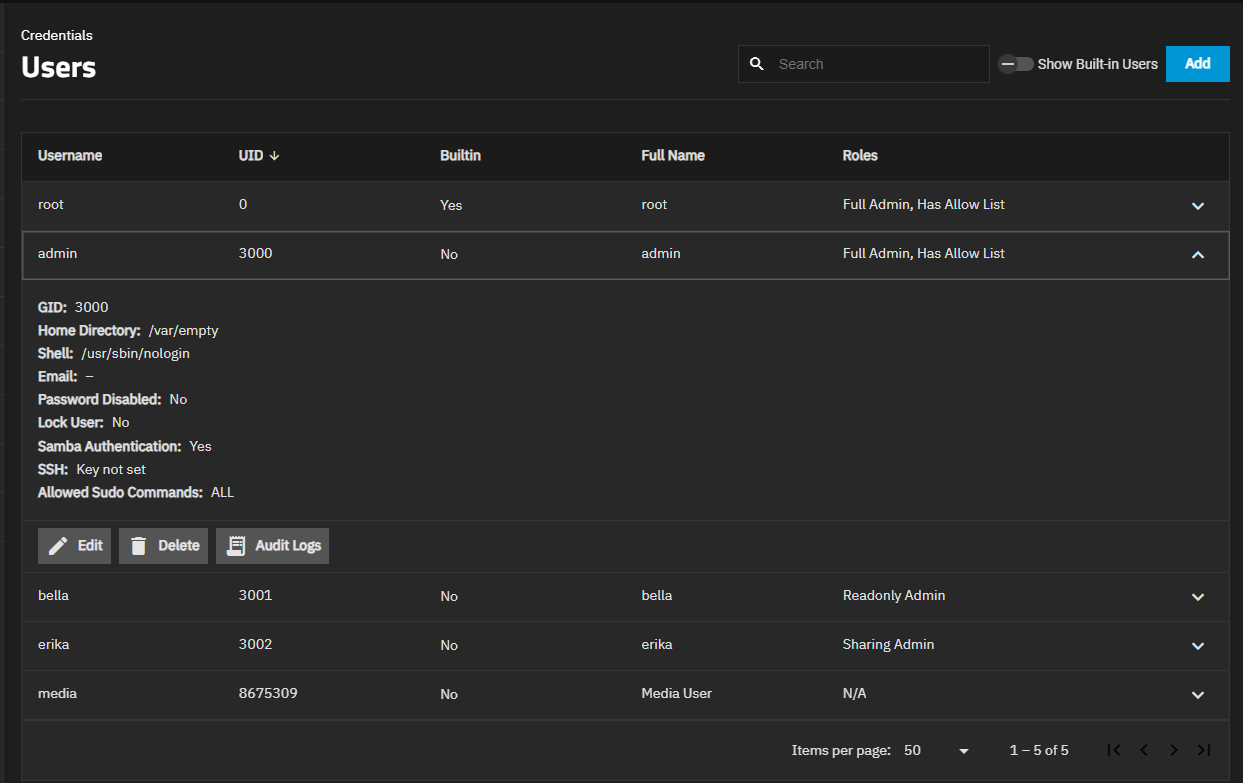
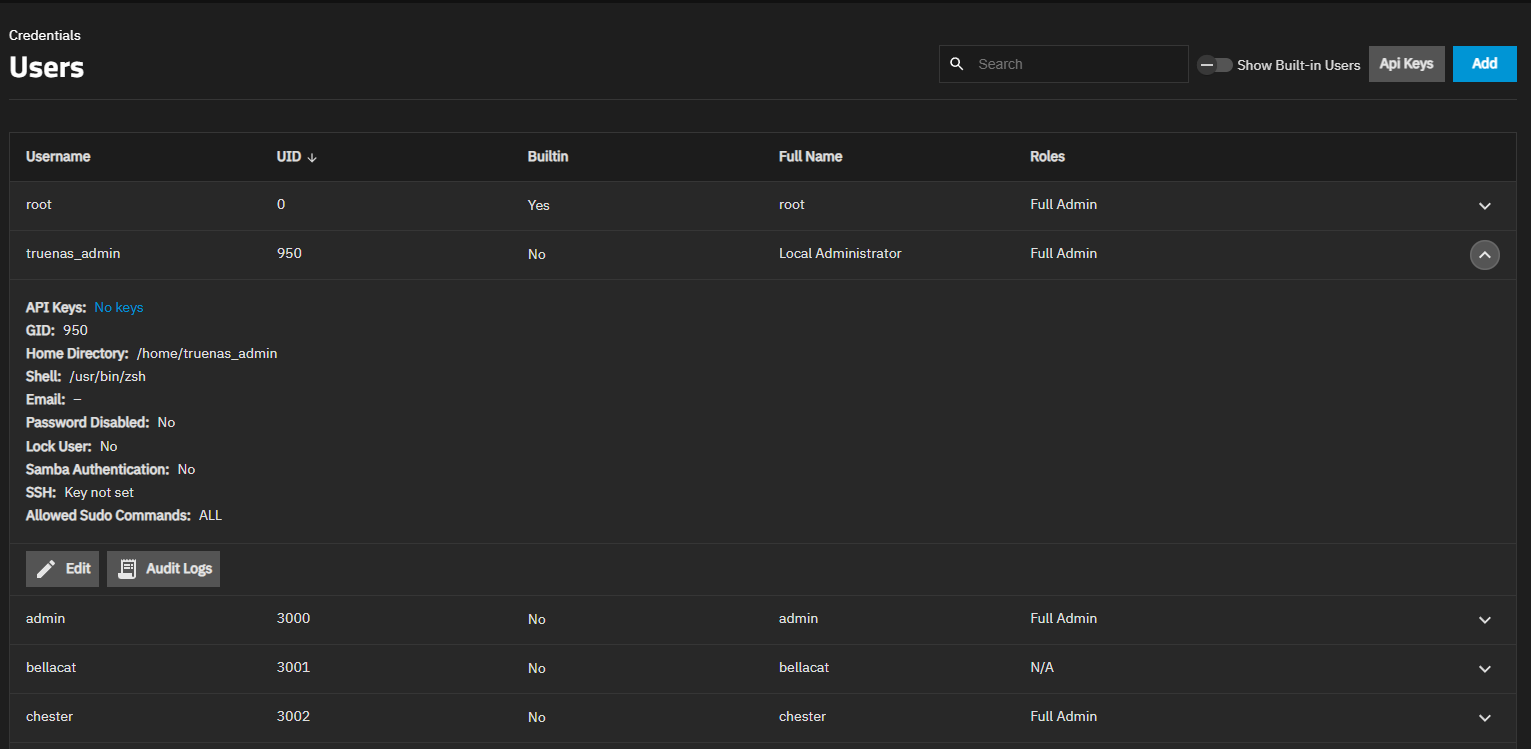
PD-1911 Update User Details Screenshot
This PR updates the screenshot for an expanded user detail screen, and adds the new API keys information to the screen description.

diff --git a/content/SCALE/SCALEUIReference/Credentials/LocalUsersScreensSCALE.md b/content/SCALE/SCALEUIReference/Credentials/LocalUsersScreensSCALE.md
@@ -30,7 +30,7 @@ Click on a user row to show the user details screen.
 
 ### User Details Screen
 
-The expanded view of each user includes details for that user, including the home directory location, shell, Samba authentication, SSH key, and sudo command access (if assigned).
+The expanded view of each user includes details for that user, including API keys for the user, the home directory location, shell, Samba authentication, SSH key, and sudo command access (if assigned).
 It provides the option to edit or delete the user, and access user audit logs.
 
 {{< trueimage src="/images/SCALE/Credentials/UserScreenUserDetails.png" alt="Local User Details" id="Local User Details" >}}
@@ -53,12 +53,12 @@ Built-in users (except the **root** user) do not include the **Home Directory Pe
 {{< truetable >}}
 | Setting | Description |
 |---------|-------------|
-| **Full Name** | Required. Enter a description for the user, such as a first and last name. |  
-| **Username** | Required. Enter a user name of up to 16 characters in length. When using NIS or other legacy software with limited user name lengths, keep names to eight characters or less for compatibility. Do not begin the user name with a hyphen (-), and do not include a space, tab, the comma (,), plus (+), ampersand (&), percent (%), carat (^), open or close parenthesis ( ), exclamation mark (!), at symbol (@), tilde (~), question mark (?), greater or less than symbols (<)(>), or equals (+) in the name. You can use the dollar sign ($) as the last character of the user name. |  
+| **Full Name** | Required. Enter a description for the user, such as a first and last name. |  
+| **Username** | Required. Enter a user name of up to 16 characters in length. When using NIS or other legacy software with limited user name lengths, keep names to eight characters or less for compatibility. Do not begin the user name with a hyphen (-), and do not include a space, tab, the comma (,), plus (+), ampersand (&), percent (%), carat (^), open or close parenthesis ( ), exclamation mark (!), at symbol (@), tilde (~), question mark (?), greater or less than symbols (<)(>), or equals (+) in the name. You can use the dollar sign ($) as the last character of the user name. |  
 | **Disable Password** | Use the toggle to disable the password for the selected user. At least one user with administrative privileges must have a password enabled. |
-| **Password** | Required. Enter a user password unless you set **Enable Password login** to **No**. A password cannot contain a question mark (?). The **Edit User** screen displays **New Password**. |  
-| **Confirm Password** | Required. Re-enter the value entered in **Password**. The **Edit User** screen displays **Confirm New Password**. |  
-| **Email** | Enter the email address of the new user. This email address receives notifications, alerts, and messages based on the settings configured. |
+| **Password** | Required. Enter a user password unless you set **Enable Password login** to **No**. A password cannot contain a question mark (?). The **Edit User** screen displays **New Password**. |  
+| **Confirm Password** | Required. Re-enter the value entered in **Password**. The **Edit User** screen displays **Confirm New Password**. |  
+| **Email** | Enter the email address of the new user. This email address receives notifications, alerts, and messages based on configured settings. |
 {{< /truetable >}}
 
 {{< trueimage src="/images/SCALE/Credentials/EditUserIdentificationSCALE.png" alt="Edit User Identification Settings" id="Edit User Identification Settings" >}}
@@ -74,15 +74,15 @@ Built-in users (except the **root** user) do not include the **Home Directory Pe
 {{< truetable >}}
 | Setting | Description |
 |---------|-------------|
-| **User ID** | Required. Enter a number greater than 1000 for user accounts. System accounts use an ID equal to the default port number used by the service. |  
-| **Primary Group** | Select a group from the dropdown list. New users are not assigned **su** permissions if **wheel** is their primary group. |  
-| **Auxiliary Groups** | Select group(s) from the dropdown list to add this new user to additional groups. To assign a pre-defined administrator role, scroll down the list to select the desired role. |  
-| **Create New Primary Group** | Select to create a new primary group with the same name as the user. Clear to select an existing group from the **Primary Group** dropdown list. |  
+| **User ID** | Required. Enter a number greater than 1000 for user accounts. System accounts use an ID equal to the default port number used by the service. |  
+| **Primary Group** | Select a group from the dropdown list. New users are not assigned **su** permissions if **wheel** is their primary group. |  
+| **Auxiliary Groups** | Select group(s) from the dropdown list to add this new user to additional groups. To assign a pre-defined administrator role, scroll down the list to select the desired role. |  
+| **Create New Primary Group** | Select to create a new primary group with the same name as the user. Clear to select an existing group from the **Primary Group** dropdown list. |  
 {{< /truetable >}}
 {{< /expand >}}
 
 ### Directories and Permissions settings
-**Directory and Permissions** settings specify the user home directory and the permissions for that home directory.
+**Directory and Permissions** settings specify the home directory for the user and the permissions for the home directory.
 
 {{< trueimage src="/images/SCALE/Credentials/AddUserHomeDirPerm.png" alt="Directories and Permissions Settings" id="Directories and Permissions Settings" >}}
 
@@ -90,7 +90,7 @@ Built-in users (except the **root** user) do not include the **Home Directory Pe
 {{< truetable >}}
 | Setting | Description |
 |---------|-------------|
-| **Home Directory** | Enter or browse to enter the path to the home directory for this user. If the directory exists and matches the **Username**, it is set as the home directory for the user. When the path does not end with a subdirectory matching the username, a new subdirectory is created if **Create Home Directory** is selected (enabled). The full path to the user home directory displays in this field on the **Edit User** screen for this user. The default location is **/var/empty**. |   
+| **Home Directory** | Enter or browse to enter the path to the home directory for this user. If the directory exists and matches the **Username**, it is set as the home directory for the user. When the path does not end with a subdirectory matching the username, a new subdirectory is created if **Create Home Directory** is selected (enabled). The full path to the user home directory shows in this field on the **Edit User** screen for this user. The default location is **/var/empty**. |   
 | **Home Directory Permissions** | Select the permissions in **Read**, **Write**, and **Execute** for each role (**User**, **Group**, and **Other**) to set access control for the user home directory. Built-in users are read-only and can not modify these settings.|
 | **Create Home Directory** | Select to create a home directory for the user when the home directory path for this user does not end in the user name. Creates a home directory for the user within the selected path. |
 {{< /truetable >}}
@@ -108,14 +108,14 @@ The add and edit user screens grant access to a shell option, but the [privilege
 | Setting | Description |
 |---------|-------------|
 | **Authorized Keys** | Enter or paste the downloaded SSH public key of the user for any key-based authentication. Use **Download Authorized Keys** to obtain a public key text file. Keep a backup copy of the public key! Do not paste the private key in this field! |
-| **Upload SSH Key** | Browse to the public key text file. |  
-| **Shell** | Select the [shell](#shell-options) to use for local and SSH logins from the dropdown list. Options are **nologin**, **TrueNAS CLI**, **TrueNAS Console**, **sh**, **bash**, **rbash**, **dash**, **tmux**, and **zsh**. |  
-| **Lock User** | Select to prevent the user from logging in or using password-based services until you clear this checkbox. Locking an account is only possible when **Disable Password** is set to **No** and the account has a created password in **Password**. |  
+| **Upload SSH Key** | Paste the public key text file for the user in this field. |  
+| **Shell** | Select the [shell](#shell-options) for local and SSH logins from the dropdown list. Options are **nologin**, **TrueNAS CLI**, **TrueNAS Console**, **sh**, **bash**, **rbash**, **dash**, **tmux**, and **zsh**. |  
+| **Lock User** | Select to prevent the user from logging in or using password-based services until you clear this checkbox. Locking an account is only possible when **Disable Password** is set to **No** and the account has a created password in **Password**. |  
 | **Allowed sudo commands** | Use to list specific [sudo](https://www.sudo.ws/) commands allowed for this user. Enter each command as an absolute path to the ELF (Executable and Linkable Format) executable file, for example, */usr/bin/nano*. <file>/usr/bin/</file> is the default location for commands. <br> Grants limited root-like permissions for this user when using these commands. Using sudo prompts the user for their account password. |
-| **Allow all sudo commands** | Select to give this user permission to use all [sudo](https://www.sudo.ws/) commands. Using sudo prompts the user for their account password. |
+| **Allow all sudo commands** | Select to grant the user permission to use all [sudo](https://www.sudo.ws/) commands. Using sudo prompts the user to enter their account password. |
 | **Allowed sudo commands with no password** | Use to list specific [sudo](https://www.sudo.ws/) commands allowed for this user with no password required. Enter each command as an absolute path to the ELF (Executable and Linkable Format) executable file, for example, */usr/bin/nano*. <file>/usr/bin/</file> is the default location for commands. <br> Grants limited root-like permissions for this user when using these commands. Exercise caution when allowing sudo commands without password prompts. We recommend limiting this privilege to trusted users and specific commands to minimize security risks. |
 | **Allow all sudo commands with no password** | Select to give this user administrator permissions and the ability to use all [sudo](https://www.sudo.ws/) commands with no password required. <br> This is not recommended. |
-| **SMB User** | Select to allow this user to authenticate to and access data share with [SMB]({{< relref "/SCALE/SCALETutorials/Shares/_index.md" >}}) samba shares. |  
+| **SMB User** | Select to allow this user to authenticate to and access data share with [SMB]({{< relref "/SCALE/SCALETutorials/Shares/_index.md" >}}) samba shares. |  
 | **Download Authorized Keys** | Click to generate and download a public key text file. Displays on the **Edit User** screen. |
 {{< /truetable >}}
 
@@ -125,15 +125,15 @@ You can set a specific [shell]({{< relref "UseScaleShell.md" >}}) for the user f
 {{< truetable >}}
 | Shell | Description |
 |-------|-------------|
-| **nologin** | Use when creating a system account or to create a user account that can authenticate with shares but that cannot log in to the TrueNAS system using SSH. In rare cases where a TrueNAS 13.0 user has `/etc/netcli` set as the user shell then migrates to TrueNAS 24.04, the user shell changes to `/user/sbin/nologin` as the default. |
+| **nologin** | Use when creating a system account or to create a user account that can authenticate with shares but that cannot log in to the TrueNAS system using SSH. In rare cases where a TrueNAS 13.0 user has `/etc/netcli` set as the user shell. After migrating to TrueNAS 24.04, the user shell changes to `/user/sbin/nologin` as the default. |
 | **bash** | [Bourne Again shell](https://www.gnu.org/software/bash/manual/bash.html) for the GNU operating system. |
 | **rbash** | [Restricted bash](https://www.gnu.org/software/bash/manual/html_node/The-Restricted-Shell.html) |
 | **dash** | [Debian Almquist shell](https://man7.org/linux/man-pages/man1/dash.1.html) |
 | **sh** | [Bourne shell](https://www.in-ulm.de/~mascheck/bourne/v7/) |
-| **tmux** | [terminal multiplexer](https://man7.org/linux/man-pages/man1/tmux.1.html)  |
+| **tmux** | [terminal multiplexer](https://man7.org/linux/man-pages/man1/tmux.1.html)  |
 | **zsh** | [Z shell](https://zsh.sourceforge.net/) |
 | **TrueNAS CLI** | Use to open **Shell** in the CLI. Eliminates the need to enter `cli` at the Shell system prompt to enter the TrueNAS CLI. Enter `ls` to see the list of namespaces. |
-| **TrueNAS Console** |Use to open **Shell** in the Console Setup menu. Eliminates the need to enter `menu`. Displays the console setup menu options. This option provides the user with access to the Linux and TrueNAS CLI shells. |
+| **TrueNAS Console** |Use to open **Shell** in the Console Setup menu. Eliminates the need to enter `menu`. Displays the console setup menu options. This option provides the user access to the Linux and TrueNAS CLI shells. |
 {{< /truetable >}}
 {{< /expand >}}
 
@@ -141,7 +141,7 @@ You can set a specific [shell]({{< relref "UseScaleShell.md" >}}) for the user f
 
 {{< trueimage src="/images/SCALE/Credentials/UsersAPIKeysButton.png" alt="Users API Keys Option" id="Users API Keys Option" >}}
 
-To view API keys that are linked to different user accounts, visit **Credentials > Users** and click the **API Keys** button on the right side of the screen.
+To view API keys linked to different user accounts, visit **Credentials > Users** and click the **API Keys** button on the right side of the screen.
 
 {{< trueimage src="/images/SCALE/Credentials/UsersAPIKeysMenu.png" alt="Users API Keys Menu" id="Users API Keys Menu" >}}
 
@@ -150,14 +150,13 @@ The **API Keys** selection takes users to the **Users API Keys** page, which pro
 {{< truetable >}}
 | Value | Description |
 |------------------|-----------------|
-| Name  | The name given to the API key when it was created.  |
-| Username  | The username of the TrueNAS user associated with the API key.  |
-| Local  | Indication of whether the API key is for a local TrueNAS user account.  |
-| Revoked  | Indication of whether the API key has been revoked and is no longer valid.  |
-| Created Date  | The date and time when the API key was created.  |
-| Expires  | The expiration date of the API key.  |
+| Name  | The name given to the API key when it was created.  |
+| Username  | The username of the TrueNAS user associated with the API key.  |
+| Local  | Indication of whether the API key is for a local TrueNAS user account.  |
+| Revoked  | Indication of whether the API key has been revoked and is no longer valid.  |
+| Created Date  | The date and time the API key was created.  |
+| Expires  | The expiration date of the API key.  |
 {{< /truetable >}}
 
 * Click <i class="material-icons" aria-hidden="true" title="Edit">edit</i> **Edit** to edit an API key
 * Click <i class="material-icons" aria-hidden="true" title="Delete">delete</i> **Delete** to delete an API key
-
